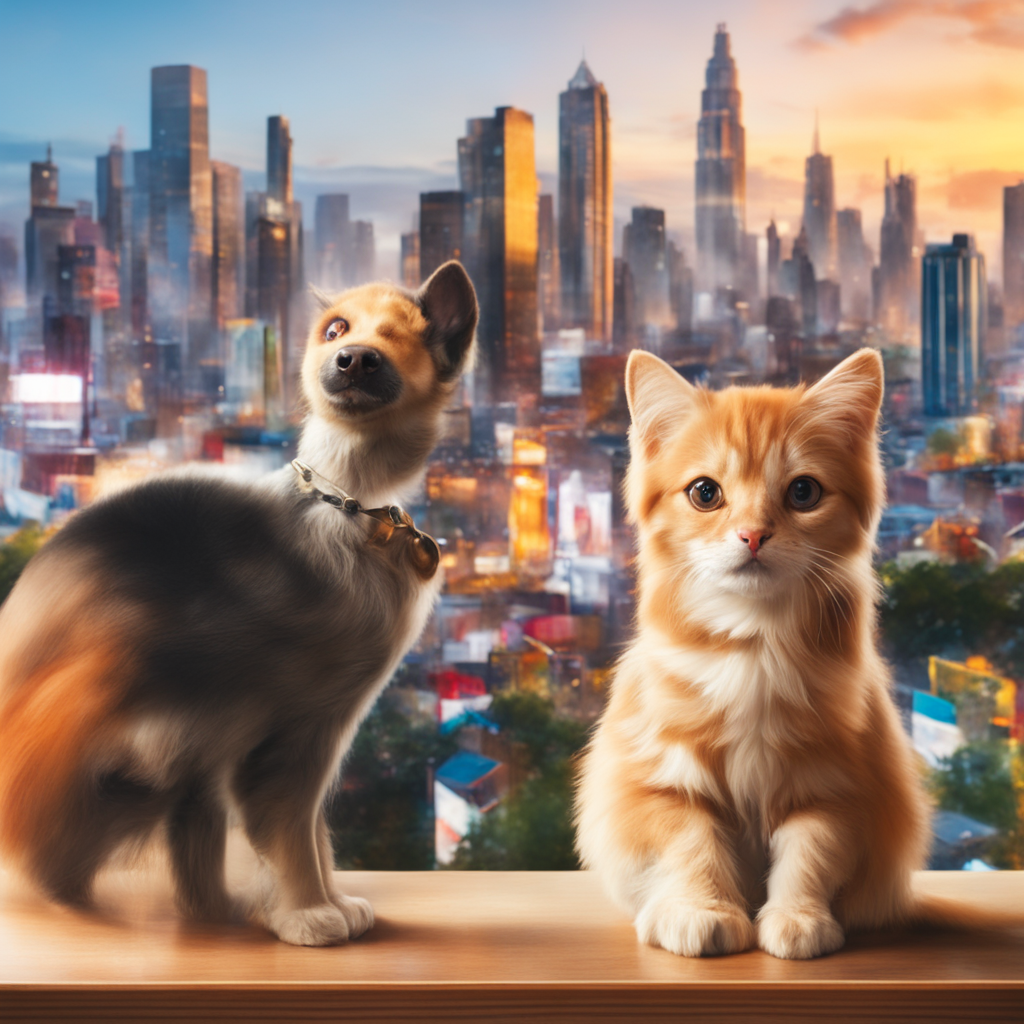
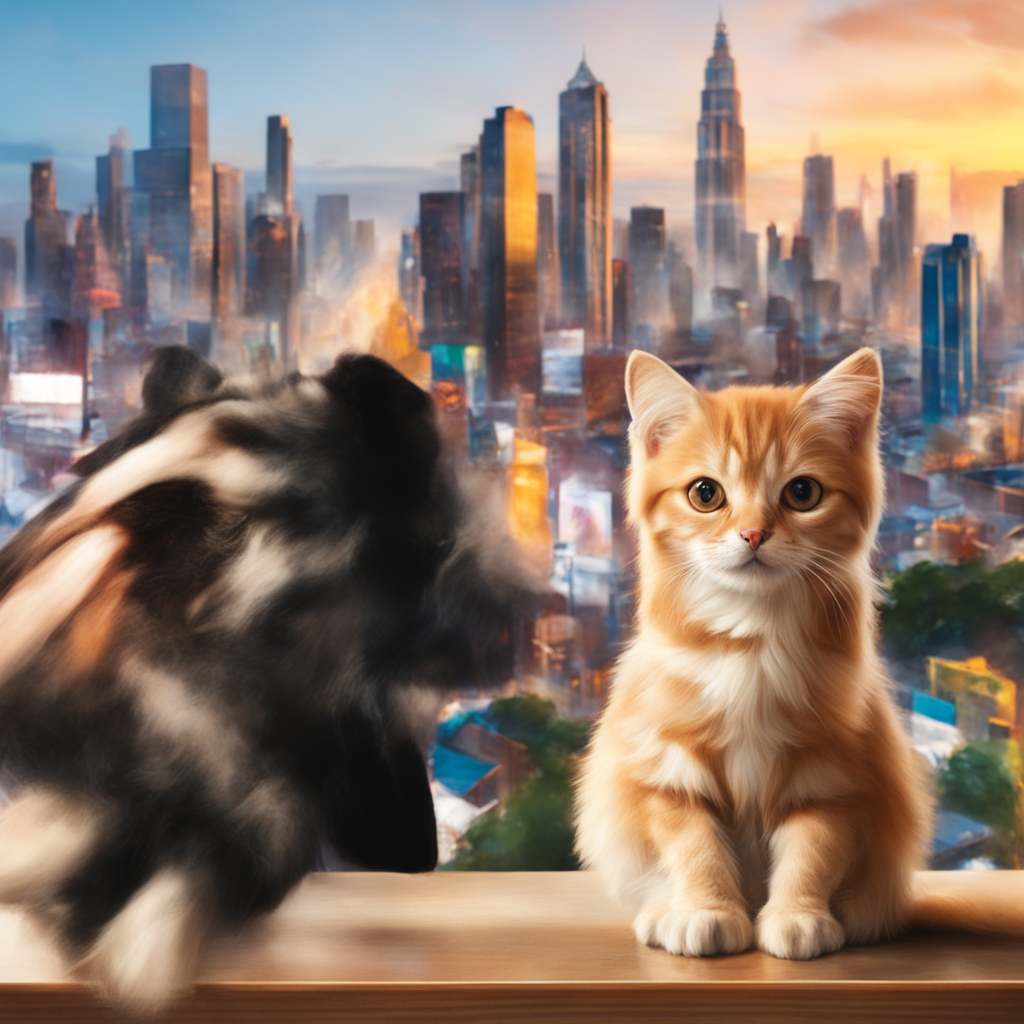
latest

diff --git a/SLD-main/utils/latents.py b/SLD-main/utils/latents.py
@@ -11,7 +11,7 @@ import os
 import logging
 import math
 import cv2
-
+import os
 from utils.affine_transformation_marco import apply_affine_transform, define_affine_transformation
 # from models import pipelines, encode_prompts
 
@@ -357,19 +357,28 @@ def inverse_warp_with_transformation_matrix_marco(A, roi_A, B, seg_map, transfor
     # # Convert bbox format for apply_affine_transformation
     # bbox = [x_min/64.0, y_min/64.0, (x_max-x_min)/64.0, (y_max-y_min)/64.0]
 
+    # Enlarge bbox by 5% within the 64x64 bounds
+    x_min, x_max, y_min, y_max = roi_A
+    w, h = x_max - x_min, y_max - y_min
+    x_min = max(0, int(x_min - w * 0.03))
+    x_max = min(63, int(x_max + w * 0.03))
+    y_min = max(0, int(y_min - h * 0.03))
+    y_max = min(63, int(y_max + h * 0.03))
+    roi_A = [x_min, x_max, y_min, y_max]
+
    
 
     for i in range(B.shape[0]):
         # Process each channel separately
         for c in range(B.shape[2]):
             latent_2D = B[i, 0, c].cpu().numpy().astype(np.float32)  # Get single channel and ensure float32
-            latent_2D, new_bbox = apply_affine_transform(latent_2D, roi_A, transform_matrix, is_mask=False)
+            latent_2D, new_bbox = apply_affine_transform(latent_2D, roi_A, transform_matrix, is_mask=False) # sets to gaussian noise the old pixels
             B[i, 0, c] = torch.from_numpy(latent_2D.astype(np.float32))  # Convert back to float
 
     # Process segmentation mask
     mask_2D = seg_map.astype(np.float32)  # Ensure float32
     mask_2D, _ = apply_affine_transform(mask_2D, roi_A, transform_matrix, is_mask=True)  # Apply same transform
-    new_mask = torch.from_numpy(mask_2D > 0.5).to(A.device).bool()  # Convert back to tensor and ensure boolean with higher threshold
+    new_mask = torch.from_numpy(mask_2D > 0.999).to(A.device).bool()  # Convert back to tensor and ensure boolean with higher threshold
 
     # now apply the new_mask to the new_latents only inside the new_bbox
     M2 = np.ones((64, 64), dtype=np.float32)
@@ -610,7 +619,12 @@ def compose_latents_with_alignment(
     **kwargs,
 ):
   
-    print("MARCOOOOOOOO")
+
+    # #### marco
+    # align_with_overall_bboxes = True
+    # #####
+
+    print("compose_latents_with_alignment")
     if align_with_overall_bboxes and len(latents_all_list):
         expanded_overall_bboxes = utils.expand_overall_bboxes(overall_bboxes)
         latents_all_list, mask_tensor_list, offset_list = align_with_bboxes(
@@ -628,11 +642,8 @@ def compose_latents_with_alignment(
     # pdb.set_trace()
     # latents_all_list.append(latents_bg_lists)
     # mask_tensor_list.append(bg_mask)
-
-
     
     use_marco = True
-
 
     for obj_name, old_obj, new_obj, seg_map, all_latents in move_objects:
 
@@ -640,19 +651,18 @@ def compose_latents_with_alignment(
         # exit()
         # x_min_old, x_max_old, y_min_old, y_max_old
         old_coords = coord_transform(old_obj, 64)  
+        print(old_coords)
         # x_min_new, x_max_new, y_min_new, y_max_new
         new_coords = coord_transform(new_obj, 64)
         new_latents = all_latents.clone()
 
        
-        # define transformation
-        if obj_name == "dog #1":
-            transform_matrix = define_affine_transformation(rotation_angle = 0.0, translation = (0.0, 10.0), scaling = (0.7, 0.7))
-        else:
-            transform_matrix = define_affine_transformation(rotation_angle = 0.0, translation = (0.0, 0.0), scaling = (1.0, 1.0))
-
-
         if use_marco:
+            # define transformation
+            if obj_name == "dog #1":
+                transform_matrix = define_affine_transformation(rotation_angle = 45.0, translation = (20.0, 0.0), scaling = (1.0, 1.0))
+            else:
+                transform_matrix = define_affine_transformation(rotation_angle = 0.0, translation = (0.0, 0.0), scaling = (1.0, 1.0))
             # Call with correct parameter order
             new_latents, new_mask = inverse_warp_with_transformation_matrix_marco(
                 A=all_latents,
@@ -689,12 +699,12 @@ def compose_latents_with_alignment(
                 latent_channels.max() - latent_channels.min()
             )
             tvt.ToPILImage()(latent_channels).save(
-                os.path.join(temp_dir, f"latent_channels_{i:04d}.png")
+                os.path.join(temp_dir, f"{obj_name}_latent_channels_{i:04d}.png")
             )
 
-        print(obj_name)
-        if obj_name == "dog #1":
-            breakpoint()
+        # print(obj_name)
+        # if obj_name == "dog #1":
+        #     breakpoint()
 
 
         # plot_feat(new_latents[-1], "feat_after.png")
@@ -732,7 +742,7 @@ def compose_latents_with_alignment(
     # for i in range(N):
     #     np.save(f"object_latent_{i:02d}.npy", latents_all_list[i].cpu().numpy())
     #     np.save(f"object_mask_{i:02d}.npy", mask_tensor_list[i].cpu().numpy())
-    # exit()
+    # ebreakxit()
     # import pdb
 
     # pdb.set_trace()
@@ -801,10 +811,13 @@ def compose_latents_with_alignment(
     # foreground_indices = mask_tensor_list[0].cuda()
     # print(composed_latents.shape)
     # print(foreground_indices.shape)
-    # exit()
+
+    # # Check if the directory exists, if not create it
+    # temp_dir = "vis_feat"
+    # os.makedirs(temp_dir, exist_ok=True)
     # for i in range(51):
     #     plot_feat(composed_latents[i], f"vis_feat/feat_final{i}.png")
-    # exit()
+    # # exit()
     return composed_latents, foreground_indices, offset_list
 
 

diff --git a/SLD-main/utils/show_bbox_marco.py b/SLD-main/utils/show_bbox_marco.py
@@ -1,0 +1,55 @@
+import matplotlib.pyplot as plt
+import matplotlib.patches as patches
+import numpy as np
+
+# Define the bounding box coordinates in the format [Top-left x, Top-left y, Width, Height]
+bbox_red = (0.103, 0.609, 0.347, 0.32) # new dog
+bbox_blue = (0.48, 0.230, 0.51, 0.695)  # cat
+bbox_green = (0.00154, 0.15, 0.230, 0.32)  # dog
+
+
+# Create a figure and axis
+fig, ax = plt.subplots(1, figsize=(8, 8))
+
+# Create a white background image
+background = np.ones((512, 512, 3))
+
+# Display the background image
+ax.imshow(background)
+
+# Create rectangle patches for the bounding boxes
+rect_red = patches.Rectangle(
+    (bbox_red[0] * 512, bbox_red[1] * 512),
+    bbox_red[2] * 512,
+    bbox_red[3] * 512,
+    linewidth=2,
+    edgecolor='r',
+    facecolor='none'
+)
+
+rect_blue = patches.Rectangle(
+    (bbox_blue[0] * 512, bbox_blue[1] * 512),
+    bbox_blue[2] * 512,
+    bbox_blue[3] * 512,
+    linewidth=2,
+    edgecolor='b',
+    facecolor='none'
+)
+
+rect_green = patches.Rectangle(
+    (bbox_green[0] * 512, bbox_green[1] * 512),
+    bbox_green[2] * 512,
+    bbox_green[3] * 512,
+    linewidth=2,
+    edgecolor='g',
+    facecolor='none'
+)
+
+# Add the rectangle patches to the plot
+ax.add_patch(rect_red)
+ax.add_patch(rect_blue)
+ax.add_patch(rect_green)
+
+# Save the plot to a file
+plt.savefig("bbox_image.png")
+plt.close()
